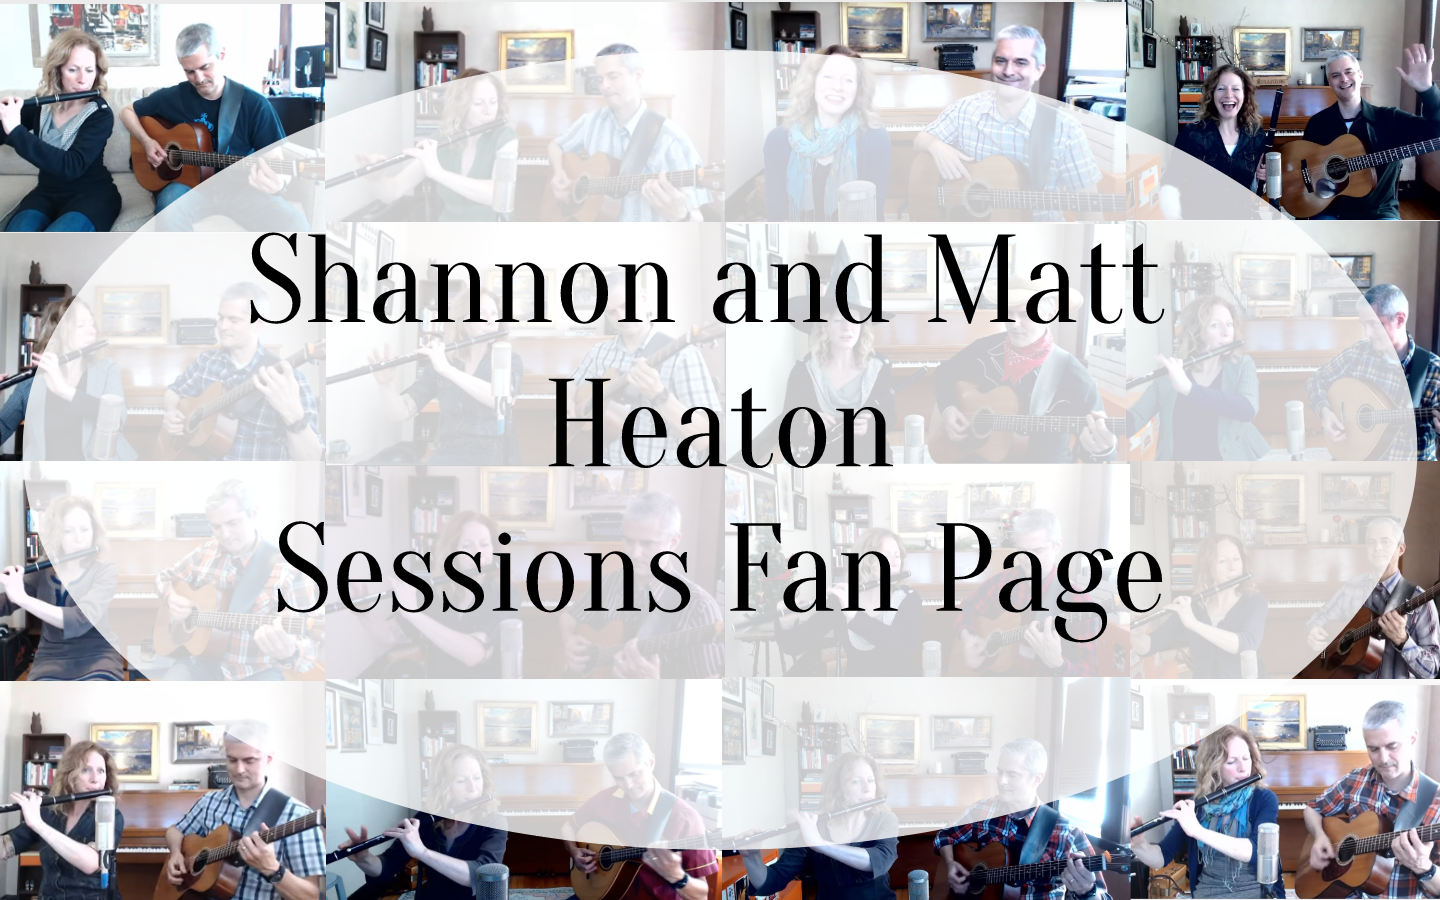
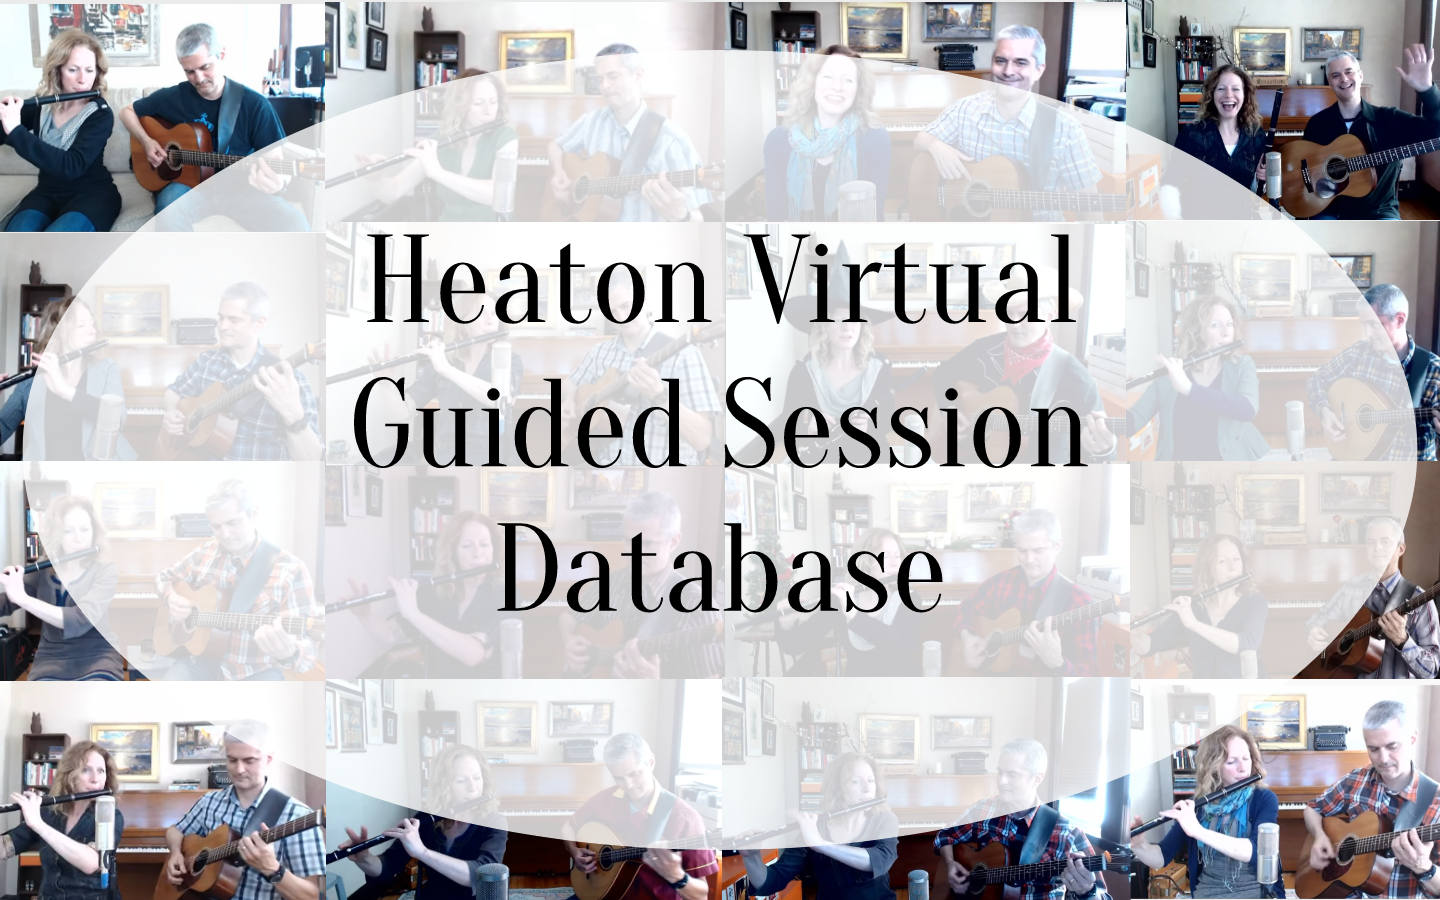
Updates to homepage, session page, and tune detail page

Changed region(s): [[0.1562, 0.2489, 0.8125, 0.3733], [0.1875, 0.56, 0.8125, 0.7156], [0.2188, 0.4044, 0.75, 0.5289]]

diff --git a/heaton_project/session/templates/session/base.html b/heaton_project/session/templates/session/base.html
@@ -16,12 +16,12 @@
     <!-- Custom CSS -->
     <link rel="stylesheet" href="{% static 'session/css/base.css' %}">
 
-    <title>Heaton Sessions Fans</title>
+    <title>Heaton VGS Database</title>
     </head>
     <body>
     
       <nav class="navbar navbar-expand-lg navbar-dark bg-dark">
-        <a class="navbar-brand" href="{% url 'home' %}">Heaton Sessions Fans</a>
+        <a class="navbar-brand" href="{% url 'home' %}">Heaton VGS Database</a>
         <button class="navbar-toggler" type="button" data-toggle="collapse" data-target="#navbarNav" aria-controls="navbarNav" aria-expanded="false" aria-label="Toggle navigation">
           <span class="navbar-toggler-icon"></span>
         </button>
@@ -51,7 +51,7 @@
       </div>
       <footer class="footer">
         <div class="">
-          <p class="text-center" style="color: #3b519b;">Created by <a href="http://www.claytoncook.com/" target="_blank">claytoncook12
+          <p class="text-center" style="color: #3b519b;">Website by <a href="http://www.claytoncook.com/" target="_blank">claytoncook12
           </a> - 2021</p>
         </div>
       </footer>

diff --git a/heaton_project/session/templates/session/session_detail.html b/heaton_project/session/templates/session/session_detail.html
@@ -71,10 +71,14 @@
     {% for tune in group.played_tunes %}
         <li>
             <a href="{% url 'tune_detail' tune.tune.pk %}">
-                {{ tune.tune.name1|title }} ({{ tune.key|title }}) ({{ tune.tune.tune_type.tune_type_char|title }})
+                {{ tune.tune.name1|title }} 
+                {% if tune.tune.name2 %}
+                aka. {{ tune.tune.name2|title }}
+                {% endif %}
+                ({{ tune.key|title }}) ({{ tune.tune.tune_type.tune_type_char|title }})
             </a>
             {% if  tune.add_info != '' or tune.tune.tune_info != '' %}
-            Notes: {{ tune.add_info|title }}, {{ tune.tune.tune_info|title }}
+            Notes: {{ tune.add_info }}, {{ tune.tune.tune_info }}
             {% endif %}
         </li>
     {% endfor %}

diff --git a/heaton_project/session/templates/session/tune_detail.html b/heaton_project/session/templates/session/tune_detail.html
@@ -20,6 +20,10 @@
 </h3>
 <br>
 
+<h5>
+    Notes: {{ tune_id_detail.tune_info }}<br>
+</h5>
+
 {% if name_yer_tune_detail %}
     <h3>#NameYerTune Teaching Video</h3>
     <div class="embed-responsive embed-responsive-16by9">

diff --git a/heaton_project/session/views.py b/heaton_project/session/views.py
@@ -54,7 +54,7 @@ def session_detail(request, year, month, day):
     tune_groups = []
     r = played_tune_group.objects.filter(session=session_id_detail)
     for group in r:
-        tune_groups.append({'group': group, 'played_tunes': played_tune.objects.filter(played_tune_group=group)})
+        tune_groups.append({'group': group, 'played_tunes': played_tune.objects.filter(played_tune_group=group).order_by('group_order_num')})
 
     return render(request, 'session/session_detail.html', {'session_id_detail': session_id_detail,
                                                            'videoId': videoId,
@@ -109,7 +109,7 @@ def nameyertune_all(request):
     All the #NameYerTune Tunes
     """
 
-    name_yer_tunes_all = name_yer_tune.objects.all()
+    name_yer_tunes_all = name_yer_tune.objects.all().order_by('-session__date')
 
     return render(request, 'session/name_yer_tune_all.html', {'name_yer_tunes_all': name_yer_tunes_all})
 

diff --git a/heaton_project/heaton/settings.py b/heaton_project/heaton/settings.py
@@ -20,12 +20,12 @@ BASE_DIR = Path(__file__).resolve().parent.parent
 # See https://docs.djangoproject.com/en/3.1/howto/deployment/checklist/
 
 # SECURITY WARNING: keep the secret key used in production secret!
-SECRET_KEY = 'a1opby*=yx-j#tf**vxjg&btky)@63o)c4hvz7n&wh=cu@k8@u'
+SECRET_KEY = 'a1opby*=yx-j#tf**vxjg&btky)@63o)c4hvz7n&wh=cu@k8@ukj'
 
 # SECURITY WARNING: don't run with debug turned on in production!
-DEBUG = True
+DEBUG = False
 
-ALLOWED_HOSTS = ['*']
+ALLOWED_HOSTS = ['52.37.139.147']
 
 
 # Application definition
